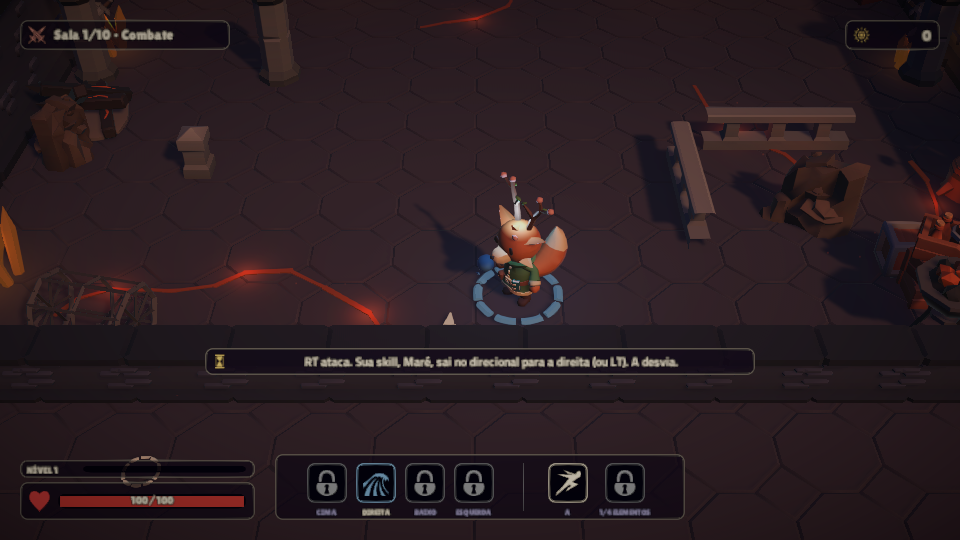
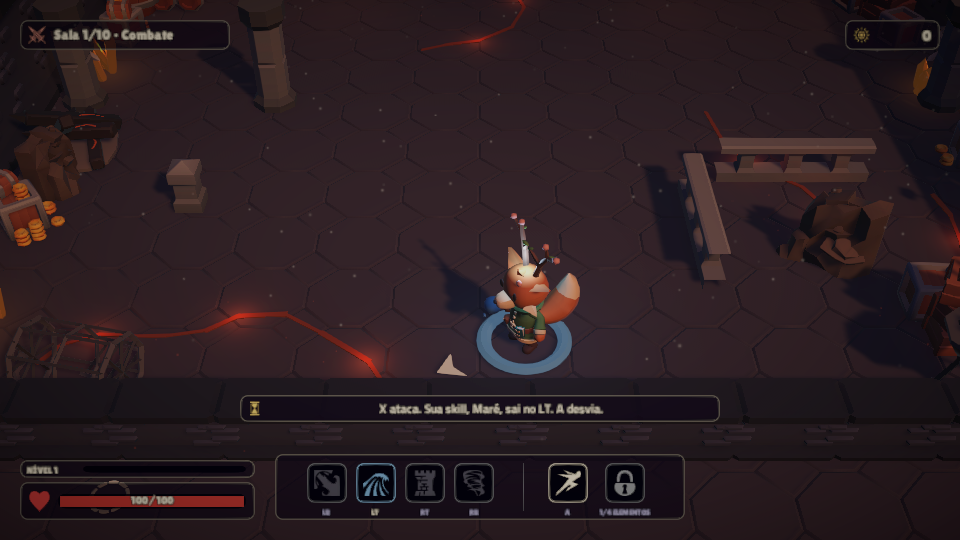
Controle: skills de Fogo, Água, Terra e Ar em LB, LT, RT e RB; golpe básico só no X e dash no A; o direcional fica para os menus. HUD, dicas, tutorial, tabela de controles, README e página do itch falam dos botões novos

diff --git a/Assets/Game/Combat/PlayerInputReader.cs b/Assets/Game/Combat/PlayerInputReader.cs
@@ -5,15 +5,15 @@ namespace Quintessence.Combat
 {
     /// Teclado + mouse e controle ao mesmo tempo; vale o ultimo que mexeu.
     /// Teclado: WASD move, mouse mira, clique esquerdo ataca, 1-4 skills, Espaco dash, R Quintessencia, E interage.
-    /// Controle: analogico esquerdo move, direito mira, RT ou X ataca, direcional (cima, direita, baixo, esquerda) = skills 1-4,
-    /// LT = primeira skill pronta, A dash, Y Quintessencia, B interage.
+    /// Controle: analogico esquerdo move, direito mira, X ataca, LB LT RT RB = skills 1-4 (Fogo, Agua, Terra, Ar),
+    /// A dash, Y Quintessencia, B interage. O direcional fica para os menus.
     public class PlayerInputReader : MonoBehaviour, IPlayerInput
     {
         const float StickDeadzone = 0.25f, TriggerPoint = 0.45f;
         Camera cam;
         Vector3 aim;
         Vector2 lastMouse;
-        bool usingPad, leftTriggerWas;
+        bool usingPad, leftTriggerWas, rightTriggerWas;
         Vector3 padAimDir = Vector3.forward;
 
         /// O jogador esta no controle (o HUD troca as dicas de tecla).
@@ -34,7 +34,8 @@ namespace Quintessence.Combat
             if (pad != null && (pad.leftStick.ReadValue().sqrMagnitude > 0.1f || pad.rightStick.ReadValue().sqrMagnitude > 0.1f
                 || pad.buttonSouth.isPressed || pad.buttonNorth.isPressed || pad.buttonEast.isPressed || pad.buttonWest.isPressed
                 || pad.startButton.isPressed || pad.selectButton.isPressed || pad.dpad.ReadValue().sqrMagnitude > 0.1f
-                || pad.leftTrigger.ReadValue() > 0.3f || pad.rightTrigger.ReadValue() > 0.3f))
+                || pad.leftTrigger.ReadValue() > 0.3f || pad.rightTrigger.ReadValue() > 0.3f
+                || pad.leftShoulder.isPressed || pad.rightShoulder.isPressed))
                 usingPad = true;
             var m = Mouse.current;
             if (m != null)
@@ -108,7 +109,7 @@ namespace Quintessence.Combat
             {
                 if (Mouse.current != null && Mouse.current.leftButton.isPressed) return true;
                 var pad = Gamepad.current;
-                return pad != null && (pad.rightTrigger.ReadValue() > TriggerPoint || pad.buttonWest.isPressed);
+                return pad != null && pad.buttonWest.isPressed; // so o X: os gatilhos sao skills
             }
         }
 
@@ -116,16 +117,8 @@ namespace Quintessence.Combat
             (Keyboard.current != null && Keyboard.current.spaceKey.wasPressedThisFrame) ||
             (Gamepad.current != null && Gamepad.current.buttonSouth.wasPressedThisFrame);
 
-        public bool ConsumeSkill()
-        {
-            if (Mouse.current != null && Mouse.current.rightButton.wasPressedThisFrame) return true;
-            var pad = Gamepad.current;
-            if (pad == null) return false;
-            bool down = pad.leftTrigger.ReadValue() > TriggerPoint;
-            bool pressed = down && !leftTriggerWas;
-            leftTriggerWas = down;
-            return pressed;
-        }
+        /// Repetir a ultima skill: so o clique direito (no controle os quatro botoes de cima ja sao as skills).
+        public bool ConsumeSkill() => Mouse.current != null && Mouse.current.rightButton.wasPressedThisFrame;
 
         public int ConsumeElementSkill()
         {
@@ -138,13 +131,16 @@ namespace Quintessence.Combat
                 if (k.digit4Key.wasPressedThisFrame || k.numpad4Key.wasPressedThisFrame) return 4;
             }
             var pad = Gamepad.current;
-            if (pad != null)
-            {
-                if (pad.dpad.up.wasPressedThisFrame) return 1;
-                if (pad.dpad.right.wasPressedThisFrame) return 2;
-                if (pad.dpad.down.wasPressedThisFrame) return 3;
-                if (pad.dpad.left.wasPressedThisFrame) return 4;
-            }
+            if (pad == null) { leftTriggerWas = rightTriggerWas = false; return 0; }
+            // gatilho e eixo: conta a passagem do ponto, para segurar nao repetir a skill
+            bool lt = pad.leftTrigger.ReadValue() > TriggerPoint, rt = pad.rightTrigger.ReadValue() > TriggerPoint;
+            bool ltPressed = lt && !leftTriggerWas, rtPressed = rt && !rightTriggerWas;
+            leftTriggerWas = lt; rightTriggerWas = rt;
+            // da esquerda para a direita na mao: LB, LT, RT, RB
+            if (pad.leftShoulder.wasPressedThisFrame) return 1;
+            if (ltPressed) return 2;
+            if (rtPressed) return 3;
+            if (pad.rightShoulder.wasPressedThisFrame) return 4;
             return 0;
         }
 

diff --git a/Assets/Game/Run/Tutorial.cs b/Assets/Game/Run/Tutorial.cs
@@ -69,9 +69,9 @@ namespace Quintessence.Run
             _ => Text(s),
         };
 
-        static readonly string[] PadDir = { "", "cima", "direita", "baixo", "esquerda" };
+        static readonly string[] PadDir = { "", "LB", "LT", "RT", "RB" };
 
-        /// Texto do passo para quem joga de controle: analogicos, gatilhos e o direcional no lugar de teclado e mouse.
+        /// Texto do passo para quem joga de controle: analogicos e os botoes de cima (LB LT RT RB) no lugar de teclado e mouse.
         public static string Text(TutorialStep s, Quintessence.Core.ElementType hero, Quintessence.Core.ElementType second, bool gamepad)
         {
             if (!gamepad) return Text(s, hero, second);
@@ -79,9 +79,9 @@ namespace Quintessence.Run
             {
                 TutorialStep.Move => "Ande com o analógico esquerdo. O analógico direito aponta a mira.",
                 TutorialStep.Dash => "Aperte A para dar um dash. Durante o dash você não leva dano.",
-                TutorialStep.Attack => "Aperte RT para bater num boneco três vezes. O golpe básico não tem elemento.",
-                TutorialStep.Skill => $"Aperte o direcional para {PadDir[(int)hero]} perto de um boneco: é a skill de {Bare(hero)}. Ela deixa a marca do elemento no inimigo e tem recarga.",
-                TutorialStep.React => $"Você despertou {Named(second)}. Marque um boneco com o direcional para {PadDir[(int)hero]} e acerte o mesmo boneco com o direcional para {PadDir[(int)second]}: skills de elementos diferentes reagem.",
+                TutorialStep.Attack => "Aperte X para bater num boneco três vezes. O golpe básico não tem elemento.",
+                TutorialStep.Skill => $"Aperte {PadDir[(int)hero]} perto de um boneco: é a skill de {Bare(hero)}. Ela deixa a marca do elemento no inimigo e tem recarga.",
+                TutorialStep.React => $"Você despertou {Named(second)}. Marque um boneco com {PadDir[(int)hero]} e acerte o mesmo boneco com {PadDir[(int)second]}: skills de elementos diferentes reagem.",
                 TutorialStep.Quintessence => "Reações enchem a Quintessência. Com os quatro elementos e a barra cheia, aperte Y.",
                 _ => Text(s),
             };
@@ -91,7 +91,7 @@ namespace Quintessence.Run
         {
             TutorialStep.Move => "Ande pela sala com W A S D. O herói mira onde o mouse aponta.",
             TutorialStep.Dash => "Aperte Espaço (A no controle) para dar um dash. Durante o dash você não leva dano.",
-            TutorialStep.Attack => "Clique esquerdo (RT no controle) para bater num boneco três vezes. O golpe básico não tem elemento.",
+            TutorialStep.Attack => "Clique esquerdo (X no controle) para bater num boneco três vezes. O golpe básico não tem elemento.",
             TutorialStep.Skill => "Aperte 1 perto de um boneco: é a skill de Fogo. Ela deixa a marca do elemento no inimigo e tem recarga.",
             TutorialStep.React => "Você despertou a Água. Marque um boneco com 1 e acerte o mesmo boneco com 2: skills de elementos diferentes reagem.",
             TutorialStep.Quintessence => "Reações enchem a Quintessência. Com os quatro elementos e a barra cheia, aperte R.",

diff --git a/Assets/Game/UI/Hud.cs b/Assets/Game/UI/Hud.cs
@@ -289,8 +289,8 @@ namespace Quintessence.UI
         }
 
         Text promptKey;
-        /// Rotulo do direcional para cada skill no controle (Fogo cima, Agua direita, Terra baixo, Ar esquerda).
-        static readonly string[] PadSkill = { "", "CIMA", "DIREITA", "BAIXO", "ESQUERDA" };
+        /// Botao de cada skill no controle, da esquerda para a direita na mao (Fogo LB, Agua LT, Terra RT, Ar RB).
+        static readonly string[] PadSkill = { "", "LB", "LT", "RT", "RB" };
         static bool Pad => InputMode.Gamepad;
 
         static Image Bar(RectTransform parent, Color color)
@@ -852,7 +852,7 @@ namespace Quintessence.UI
                 }
             }
             UiKit.Text(UiKit.Rect("Keys", pausePanel, new Vector2(0.5f, 0), new Vector2(0, 18), new Vector2(1700, 30)),
-                Pad ? "analógico esquerdo move · direito mira · RT ataca · direcional skills · A dash · Y Quintessência · B interagir · Select inventário · R3 mapa"
+                Pad ? "analógico esquerdo move · direito mira · X ataca · LB LT RT RB skills · A dash · Y Quintessência · B interagir · Select inventário · R3 mapa"
                     : "WASD mover · mouse mira · clique ataca · 1 2 3 4 skills · Espaço dash · R Quintessência · E interagir · I inventário · Tab mapa",
                 20, UiKit.Dim, TextAnchor.MiddleCenter, false);
         }

diff --git a/Assets/Game/Run/Tests/Editor/TutorialTests.cs b/Assets/Game/Run/Tests/Editor/TutorialTests.cs
@@ -98,10 +98,11 @@ namespace Quintessence.Run.Tests
                 Assert.IsNotEmpty(t);
                 StringAssert.DoesNotContain("Aperte 1", t); StringAssert.DoesNotContain("W A S D", t); StringAssert.DoesNotContain("Clique", t);
             }
-            StringAssert.Contains("direcional para baixo", TutorialState.Text(TutorialStep.Skill, E, F, true));
+            StringAssert.Contains("Aperte RT", TutorialState.Text(TutorialStep.Skill, E, F, true));
             var react = TutorialState.Text(TutorialStep.React, E, F, true);
-            StringAssert.Contains("para baixo", react);
-            StringAssert.Contains("para cima", react);
+            StringAssert.Contains("com RT", react);
+            StringAssert.Contains("com LB", react);
+            Assert.AreEqual("Aperte X para bater num boneco três vezes. O golpe básico não tem elemento.", TutorialState.Text(TutorialStep.Attack, E, F, true));
             Assert.AreEqual(TutorialState.Text(TutorialStep.Skill, E, F), TutorialState.Text(TutorialStep.Skill, E, F, false));
         }
     }

diff --git a/Assets/Game/Game/Tests/PlayMode/AspectShots.cs b/Assets/Game/Game/Tests/PlayMode/AspectShots.cs
@@ -48,8 +48,8 @@ namespace Quintessence.Game.PlayTests
             hud.UseCamera(Camera.main);
             var labels = hud.GetComponentsInChildren<UnityEngine.UI.Text>(true).Select(t => t.text).ToList();
             Assert.Contains("A", labels, "o dash mostra o botao A");
-            Assert.Contains("DIREITA", labels, "a skill de Agua mostra o direcional");
-            StringAssert.Contains("direcional para a direita", hud.LastTip, "a dica inicial fala do controle");
+            Assert.Contains("LT", labels, "a skill de Agua mostra o LT");
+            StringAssert.Contains("sai no LT", hud.LastTip, "a dica inicial fala do controle");
             yield return Shoot(Camera.main, "docs/img/s6_controle.png", new Vector2Int(960, 540));
             // no controle, levar golpe vibra forte e curto
             var pc = Object.FindFirstObjectByType<Quintessence.Combat.PlayerController>();

diff --git a/Assets/Game/Game/RunDirector.cs b/Assets/Game/Game/RunDirector.cs
@@ -685,9 +685,9 @@ namespace Quintessence.Game
                 // a skill inicial fica na tecla do elemento do heroi (Liora no 2, Brann no 3, Vey no 4)
                 string[] skill = { "", "Labareda", "Maré", "Pilar de Pedra", "Vendaval" };
                 int k = (int)GameFlow.StartElement;
-                string[] pad = { "", "para cima", "para a direita", "para baixo", "para a esquerda" };
+                string[] pad = { "", "LB", "LT", "RT", "RB" };
                 hud.ShowTip(InputMode.Gamepad
-                    ? $"RT ataca. Sua skill, {skill[k]}, sai no direcional {pad[k]} (ou LT). A desvia."
+                    ? $"X ataca. Sua skill, {skill[k]}, sai no {pad[k]}. A desvia."
                     : $"Clique esquerdo ataca. Sua skill, {skill[k]}, está na tecla {k} (ou clique direito). Espaço desvia.", 9f);
                 return;
             }

diff --git a/Assets/Game/UI/TitleMenu.cs b/Assets/Game/UI/TitleMenu.cs
@@ -168,7 +168,7 @@ namespace Quintessence.UI
 
         /// Linha de comandos no pe do titulo: a do teclado ou a do controle, conforme o que o jogador usou por ultimo.
         public static string KeysLine(bool gamepad) => gamepad
-            ? "analógico esquerdo move · direito mira · RT ataca · direcional skills · A dash · Y Quintessência · B interagir · Select inventário"
+            ? "analógico esquerdo move · direito mira · X ataca · LB LT RT RB skills · A dash · Y Quintessência · B interagir · Select inventário"
             : "WASD mover · mouse mira · clique ataca · 1 2 3 4 skills · Espaço dash · R Quintessência · E interagir · I inventário  —  também funciona com controle";
 
         /// No titulo nao existe o leitor de controles do heroi: quem mexeu por ultimo (controle ou teclado e mouse) decide os textos.

diff --git a/Assets/Game/UI/UiOptions.cs b/Assets/Game/UI/UiOptions.cs
@@ -61,9 +61,9 @@ namespace Quintessence.UI
         {
             ("Mover", "W A S D", "analógico esquerdo"),
             ("Mirar", "mouse", "analógico direito"),
-            ("Golpe básico (segure para o combo)", "clique esquerdo", "RT ou X"),
-            ("Skills de Fogo, Água, Terra e Ar", "1  2  3  4", "direcional"),
-            ("Repetir a última skill", "clique direito", "LT"),
+            ("Golpe básico (segure para o combo)", "clique esquerdo", "X"),
+            ("Skills de Fogo, Água, Terra e Ar", "1  2  3  4", "LB  LT  RT  RB"),
+            ("Repetir a última skill", "clique direito", "—"),
             ("Desviar (dash)", "Espaço", "A"),
             ("Quintessência (com os quatro elementos)", "R", "Y"),
             ("Interagir: portas, baús, totens", "E", "B"),

diff --git a/Assets/Game/Game/Tips.cs b/Assets/Game/Game/Tips.cs
@@ -38,7 +38,7 @@ namespace Quintessence.Game
         static string PadText(string id) => id switch
         {
             "melee" => "Esqueleto de arma erguida: o golpe sai quando ela desce. Desvie com A nessa hora.",
-            "start" => "RT ataca. O direcional solta as skills dos elementos. A desvia.",
+            "start" => "X ataca. LB, LT, RT e RB soltam as skills dos elementos. A desvia.",
             "level" => "Subiu de nível: escolha um talento com o direcional e confirme com A.",
             "quint" => "Quatro elementos despertos: cause reações para encher a Quintessência e aperte Y.",
             "map" => "Portas abertas: cada uma leva a um tipo de sala. Segure R3 para ver o mapa inteiro e planejar o caminho.",

diff --git a/README.md b/README.md
@@ -23,7 +23,7 @@ Abra `Assets/Scenes/Title.unity` no Unity e dê Play. A build WebGL também roda
 
 WASD move · mouse mira · clique esquerdo ataca · 1 2 3 4 skills elementais · Espaço dash · R Quintessência · E interage · I inventário · Tab mapa · Esc pausa
 
-Com controle: analógico esquerdo move, direito mira, RT ou X ataca, direcional solta as skills, A dash, Y Quintessência, B interage, Select inventário, Start pausa.
+Com controle: analógico esquerdo move, direito mira, X ataca, LB LT RT RB soltam as skills (Fogo, Água, Terra, Ar), A dash, Y Quintessência, B interage, Select inventário, Start pausa.
 
 Testes: `unity test . --mode EditMode` e `unity test . --mode PlayMode` (os de PlayMode jogam as cenas com um roteiro e gravam quadros em `Logs/frames`).
 

diff --git a/docs/itch.md b/docs/itch.md
@@ -31,8 +31,8 @@ Os quatro elementos se separaram e estão corrompendo o mundo. Escolha um dos qu
 |---|---|---|
 | Mover | W A S D | analógico esquerdo |
 | Mirar | mouse (a seta e o anel no chão mostram para onde) | analógico direito (com ajuda de mira) |
-| Golpe básico | clique esquerdo (segurar faz o combo) | RT ou X |
-| Skills dos elementos | 1 Fogo · 2 Água · 3 Terra · 4 Ar | direcional |
+| Golpe básico | clique esquerdo (segurar faz o combo) | X |
+| Skills dos elementos | 1 Fogo · 2 Água · 3 Terra · 4 Ar | LB Fogo · LT Água · RT Terra · RB Ar |
 | Desviar (dash) | Espaço | A |
 | Quintessência (com os quatro elementos) | R | Y |
 | Interagir (portas, baús, totens) | E | B |
